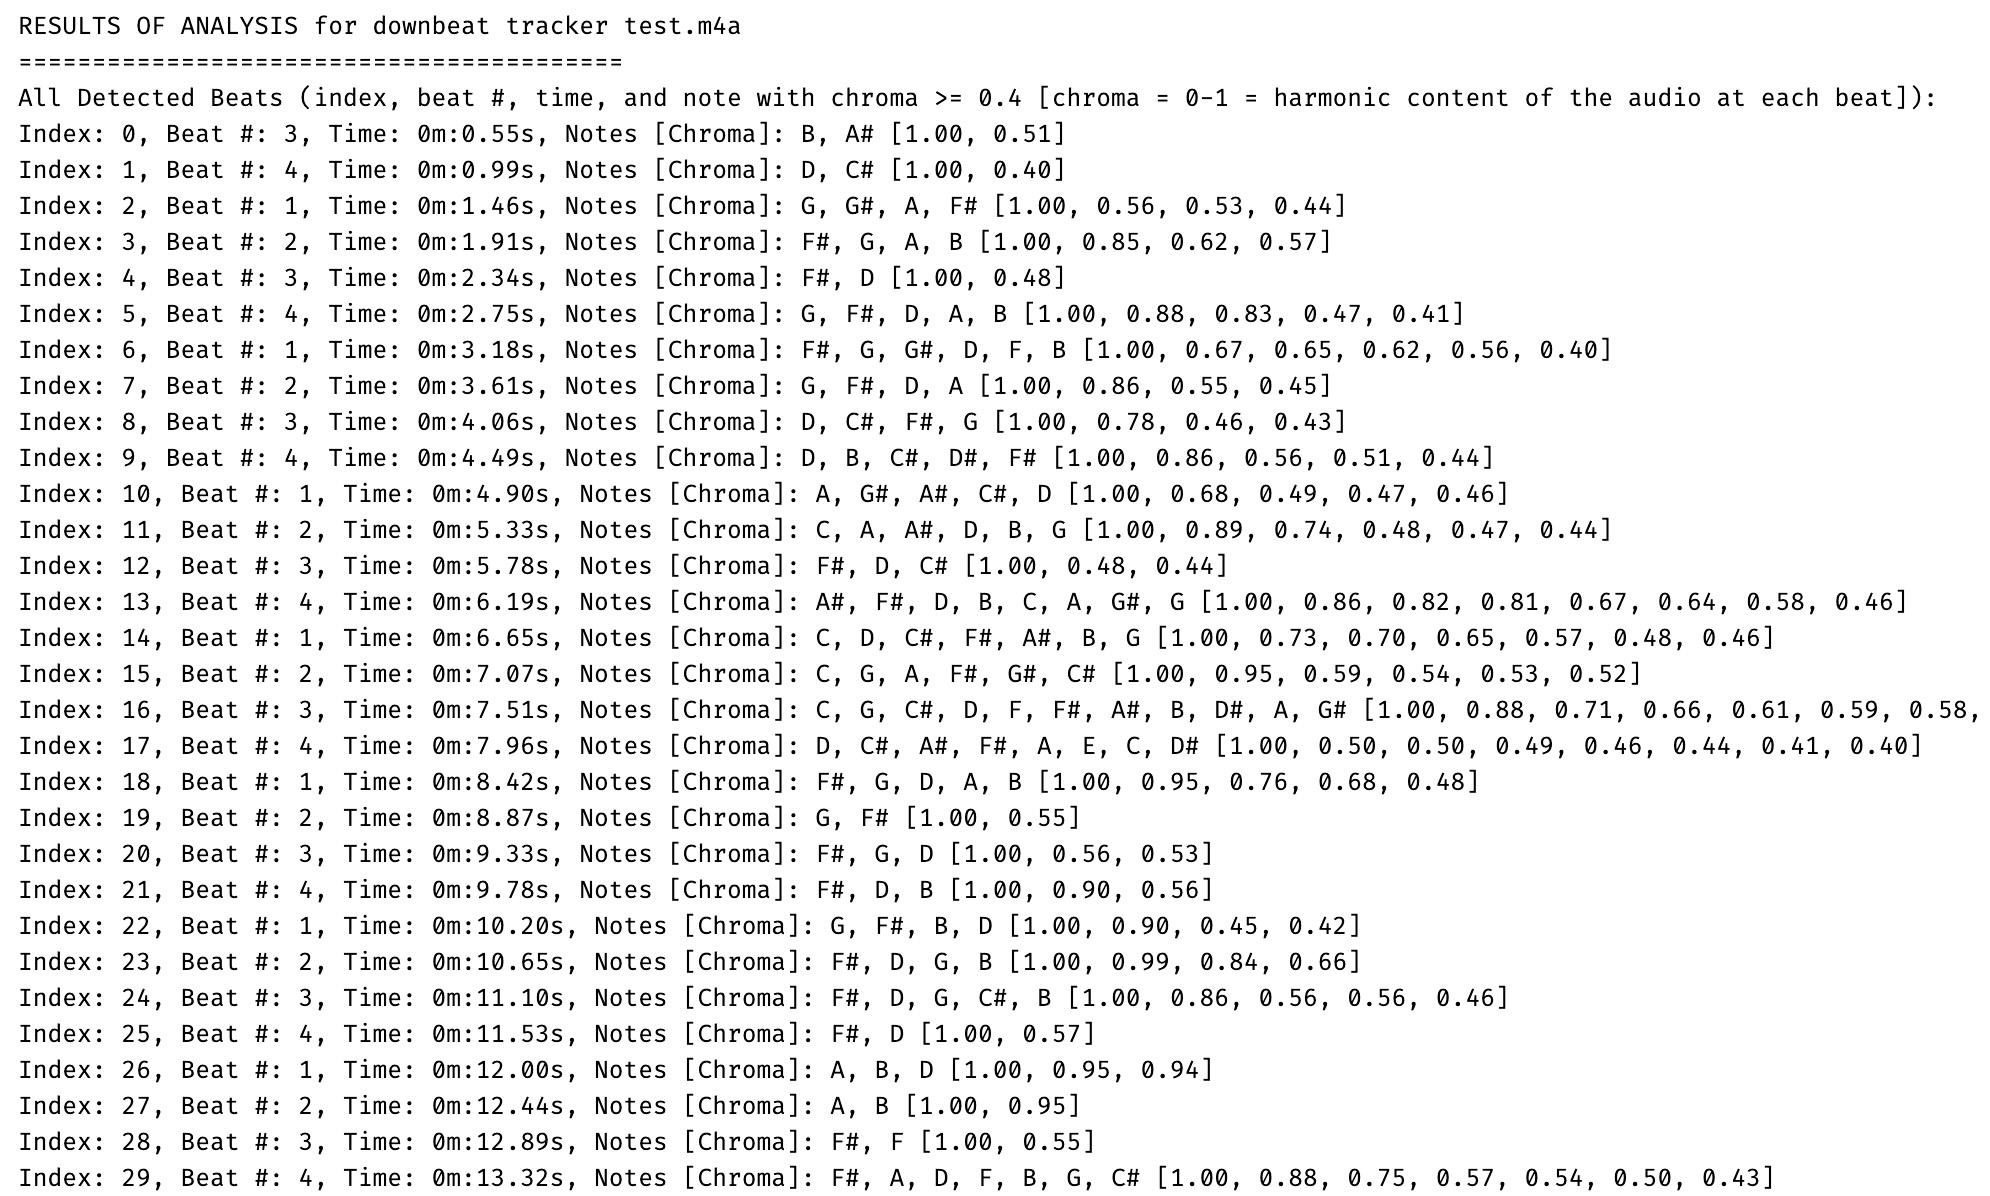
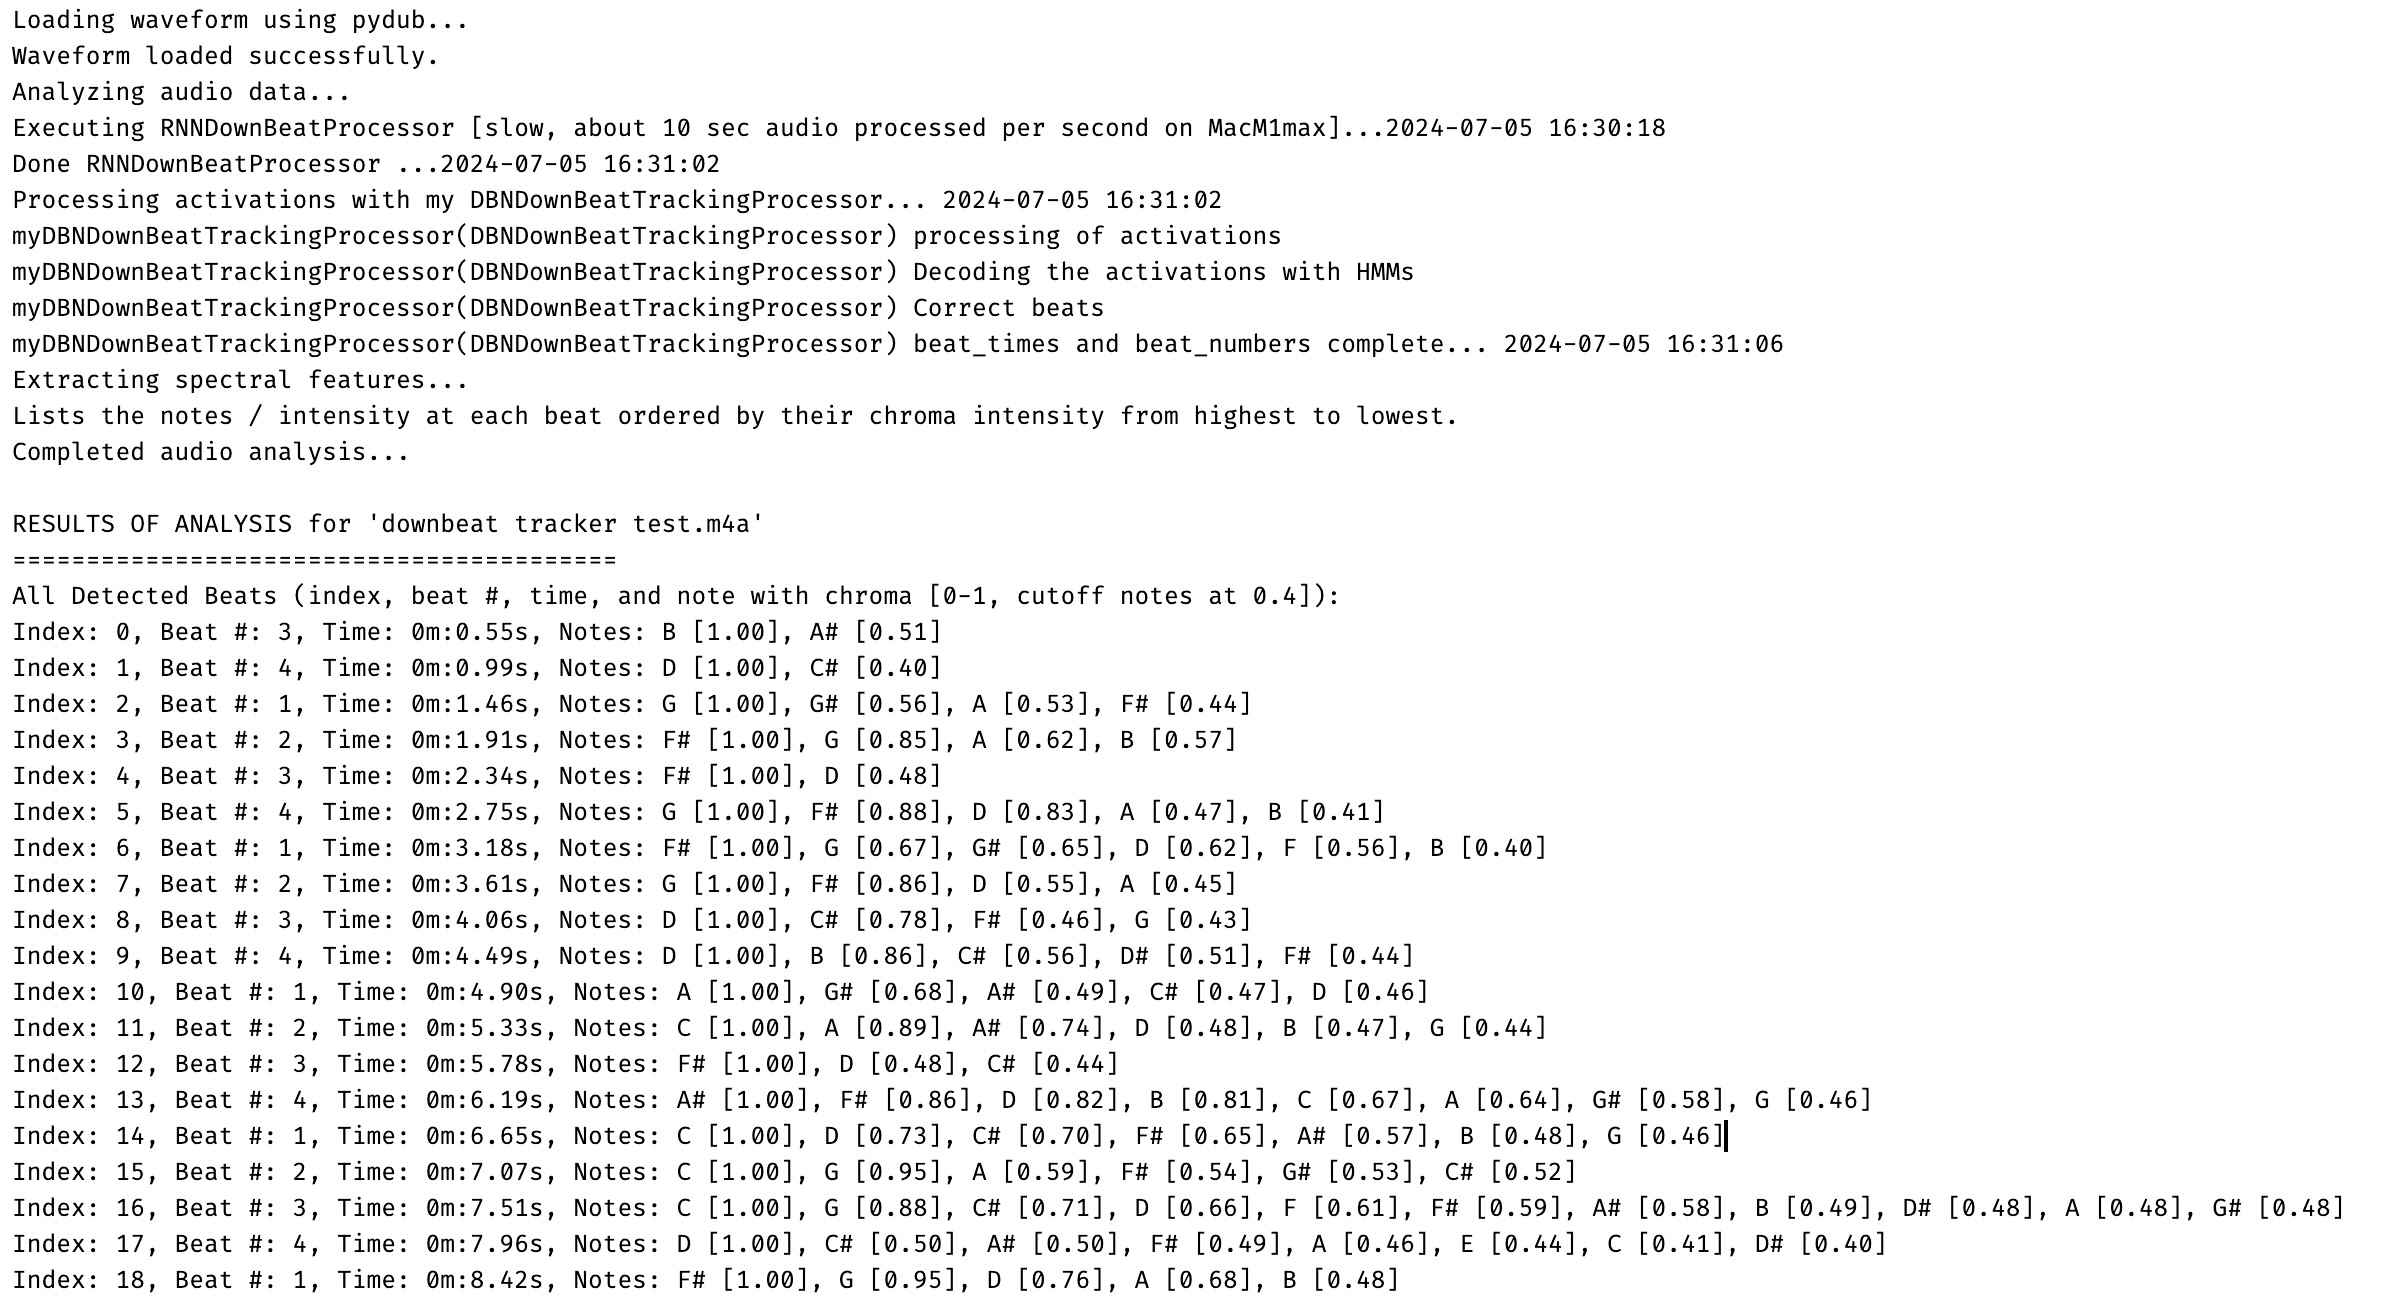
Madmom on python 3.11
minor tweaks + added time signature

diff --git a/madmom_python311_main.py b/madmom_python311_main.py
@@ -6,20 +6,18 @@ Applies madmom RNNDownBeatProcessor() to get beat activations
 Applies madmom DBNDownBeatTrackingProcessor() to get beat times and downbeats.
     - uses myDBNDownBeatTrackingProcessor() to operate in the current environment
 
-(c) M Gazier, 2024
-MIT License for my code
-Given parts of this code are essentially Madmom code, you should comply/check with the author Dr. Gerhard Widmer
-https://github.com/CPJKU/madmom
-Current web site https://www.jku.at/en/institute-of-computational-perception/about-us/people/gerhard-widmer/
+(c) Michael Gazier, 2024
+MIT License
 """
-import numpy as np
 from pydub import AudioSegment
 import os
 import librosa
+from datetime import datetime
 
 # fix Python 3.11 issues in madmom
 import collections.abc
 collections.MutableSequence = collections.abc.MutableSequence  # Alias MutableSequence to avoid deprecation issues
+import numpy as np
 np.float = float
 np.int = int
 # import madmom
@@ -57,34 +55,40 @@ def get_waveform(path):
     print("Waveform loaded successfully.")
     return _samples, _sr
 
-def analyze(y, _sr, min_bpm=55, max_bpm=170):
+def analyze_audio_beats_and_bpm(audio, _sr, min_bpm=None, max_bpm=None):
     """
     Analyze audio data for beats, downbeats, tempo, and musical notes.
+    min_bpm and max_bpm None mean use defaults of 55 and 170
     """
     print("Analyzing audio data...")
-    _data = {
+    beat_data = {
         'sample_rate': _sr,
-        'duration': librosa.get_duration(y=y, sr=_sr),
+        'duration': librosa.get_duration(y=audio, sr=_sr),
     }
+    if min_bpm is None:
+        min_bpm = 55
+    if max_bpm is None:
+        max_bpm = 170
 
     # Processing beats and downbeats using the custom downbeat processor
-    print("Executing RNNDownBeatProcessor...")
+    print(f"Executing RNNDownBeatProcessor [slow, about 10 sec audio processed per second on MacM1max]...{datetime.now().strftime('%Y-%m-%d %H:%M:%S')}")
     downbeat_processor = RNNDownBeatProcessor()
-    activations = downbeat_processor(y)
+    activations = downbeat_processor(audio)
+    print(f"Done RNNDownBeatProcessor ...{datetime.now().strftime('%Y-%m-%d %H:%M:%S')}")
     # print("Processing activations with myDBNDownBeatTrackingProcessor...") # message in myDBNDownBeatTrackingProcessor() if quiet=False
-    dbn_processor = myDBNDownBeatTrackingProcessor(beats_per_bar=[3, 4], fps=100, min_bpm=min_bpm, max_bpm=max_bpm, quiet=False)
-    beats_and_downbeats = dbn_processor(activations)
+    dbn_processor = myDBNDownBeatTrackingProcessor(beats_per_bar=[3, 4], fps=100, min_bpm=min_bpm, max_bpm=max_bpm)
+    beats_and_downbeats = dbn_processor(activations, quiet=False)
 
     beat_times = beats_and_downbeats[:, 0]
-    beat_positions_in_bar = beats_and_downbeats[:, 1].astype(int)  # Ensuring positions are integer
+    beat_positions_in_bar = beats_and_downbeats[:, 1].astype(int)  #  # the beat # 1-3 or 1-4
 
     # Data aggregation for output
-    _data['number_of_beats'] = len(beat_times)
-    _data['beat_times'] = beat_times
+    beat_data['number_of_beats'] = len(beat_times)
+    beat_data['beat_times'] = beat_times
 
     # Extracting downbeats (first beat of each bar)
-    downbeats = beats_and_downbeats[beat_positions_in_bar == 1]
-    _data['downbeats'] = list(zip(downbeats[:, 0], ['Beat 1'] * len(downbeats)))  # assuming beat 1 represents downbeat
+    downbeats = beats_and_downbeats[beat_positions_in_bar == 1]  # the beat # 1-3 or 1-4
+    beat_data['downbeats'] = list(zip(downbeats[:, 0], ['Beat 1'] * len(downbeats)))  # assuming beat 1 represents downbeat
 
     # Compute the tempo if enough beats are detected
     if len(beat_times) > 1:
@@ -92,12 +96,12 @@ def analyze(y, _sr, min_bpm=55, max_bpm=170):
         tempo = 60 / np.median(intervals) if intervals.size > 0 else 0  # Median interval converted to BPM
     else:
         tempo = 0  # Default to zero if not enough beats to calculate intervals
-    _data['tempo_float'] = tempo
+    beat_data['tempo_float'] = tempo
 
     print("Extracting spectral features... ")
     print("Lists the notes / intensity at each beat ordered by their chroma intensity from highest to lowest.")
     try:
-        chroma = librosa.feature.chroma_cqt(y=y, sr=_sr, hop_length=512)
+        chroma = librosa.feature.chroma_cqt(y=audio, sr=_sr, hop_length=512)
         frame_times = librosa.frames_to_time(range(chroma.shape[1]), sr=_sr, hop_length=512)
         note_names = ['C', 'C#', 'D', 'D#', 'E', 'F', 'F#', 'G', 'G#', 'A', 'A#', 'B']
 
@@ -113,73 +117,54 @@ def analyze(y, _sr, min_bpm=55, max_bpm=170):
             for frame in beat_frames
         ]
 
+        # time_signature 3/4 or 4/4 for this audio segment
+        largest_beat_number = max(beat_positions_in_bar) # max of beat+number 1-3 or 1-4
+        beat_data['time_signature'] = f"{largest_beat_number}/4"
+
         # Combining beat positions, times, and notes
-        _data['all_beats'] = list(zip(range(len(beat_times)), beat_times, beat_positions_in_bar, beat_notes))
+        beat_data['all_beats'] = list(zip(range(len(beat_times)), beat_times, beat_positions_in_bar, beat_notes))
     except Exception as e:
         print(f"Error processing chroma features: {e}")
-        _data.update({'notes': [0], 'dominant_note': 0})
+        beat_data.update({'notes': [0], 'dominant_note': 0})
 
     print("Completed audio analysis...")
-    return _data
+    return beat_data
 
-def print_data(_data, _filename):
+def print_data(_beat_data, _filename, quiet=True):
     """
     Print the results of the audio analysis.
+    quiet True means don't print all detected beats and notes [chroma]
     """
     print(f"\nRESULTS OF ANALYSIS for '{_filename}'\n=========================================")
 
     # Printing detailed information about beats and downbeats
-    print(f"All Detected Beats (index, beat #, time, and note with chroma [0-1, cutoff notes at {MIN_CHROMA}]):")
+    if not quiet:
+        print(f"All Detected Beats (index, beat #, time, and note with chroma [0-1, cutoff notes at {MIN_CHROMA}]):")
 
-    for idx, time, beat_num, notes in _data['all_beats']:
-        minutes, seconds = divmod(time, 60)
-        time_str = f"{int(minutes)}m:{seconds:.2f}s"
-        notes_str = ', '.join(notes)
-        print(f"Index: {idx}, Beat #: {beat_num}, Time: {time_str}, Notes: {notes_str}")
-
-    # Printing basic audio and analysis metrics
-    print("\nGeneral Analysis Results:")
-    print(f"Sample Rate: {_data['sample_rate']} Hz")
-    minutes, seconds = divmod(_data['duration'], 60)
-    time_str = f"{int(minutes)}m:{seconds:.2f}s"
-    print(f"Total Duration: {time_str}")
-    print(f"Total Number of Beats: {_data['number_of_beats']}")
-    # Printing tempo calculated from beat intervals
-    print(f"Calculated Tempo: {_data['tempo_float']:.1f} BPM")
-
-def print_data(_data, _filename):
-    """
-    Print the results of the audio analysis.
-    """
-    print(f"\nRESULTS OF ANALYSIS for {_filename}\n=========================================")
-
-    # Printing detailed information about beats and downbeats
-    print(f"All Detected Beats (index, beat #, time, and note with chroma >= {MIN_CHROMA} [chroma = 0-1 = harmonic content of the audio at each beat]):")
-
-    for idx, time, beat_num, notes in _data['all_beats']:
-        minutes, seconds = divmod(time, 60)
-        time_str = f"{int(minutes)}m:{seconds:.2f}s"
-        note_names = ', '.join([note for note, _ in notes])
-        chroma_values = ', '.join([f"{chroma:.2f}" for _, chroma in notes])
-        notes_str = f"{note_names} [{chroma_values}]"
-        print(f"Index: {idx}, Beat #: {beat_num}, Time: {time_str}, Notes [Chroma]: {notes_str}")
+        for idx, time, beat_num, notes in _beat_data['all_beats']:
+            minutes, seconds = divmod(time, 60)
+            time_str = f"{int(minutes)}m:{seconds:.2f}s"
+            notes_str = ', '.join([f"{note} [{chroma:.2f}]" for note, chroma in notes])
+            print(f"Index: {idx}, Beat #: {beat_num}, Time: {time_str}, Notes: {notes_str}")
 
     # Printing basic audio and analysis metrics
     print("\nGeneral Analysis Results:")
-    print(f"Sample Rate: {_data['sample_rate']} Hz")
-    minutes, seconds = divmod(_data['duration'], 60)
+    print(f"Sample Rate: {_beat_data['sample_rate']} Hz")
+    minutes, seconds = divmod(_beat_data['duration'], 60)
     time_str = f"{int(minutes)}m:{seconds:.2f}s"
     print(f"Total Duration: {time_str}")
-    print(f"Total Number of Beats: {_data['number_of_beats']}")
+    print(f"Total Number of Beats: {_beat_data['number_of_beats']}")
     # Printing tempo calculated from beat intervals
-    print(f"Calculated Tempo: {_data['tempo_float']:.1f} BPM")
+    print(f"Calculated Tempo: {_beat_data['tempo_float']:.1f} BPM")
+    print(f"Time signature: {_beat_data['time_signature']}") # time_signature 3/4 or 4/4 (string)
 
 if __name__ == '__main__':
-    ROOT_DIR = "/my/root/path/"
+    ROOT_DIR = "/My/Path/"
     filename = "downbeat tracker test.m4a"
     filePath = os.path.join(ROOT_DIR, filename)
-    samples, sr = get_waveform(filePath) # should be 44.1kHz
+    samples, sr = get_waveform(filePath)
+    # should be 44.1kHz
     MIN_CHROMA = 0.4  # default is 0.5
-    data = analyze(samples, sr)
-    print_data(data, filename)
-    print("Analysis complete.")
+    data = analyze_audio_beats_and_bpm(samples, sr, min_bpm=None, max_bpm=None)
+    print_data(data, filename, quiet = False)
+ 

diff --git a/my_madmom_downbeat_processor.py b/my_madmom_downbeat_processor.py
@@ -1,17 +1,14 @@
 """
 Demo for use of madmom with Python 3.11
 
-There are several minor but important issues i had with Python 3.11 that are fixed in this code
+There are several minor but important issues with Python 3.11 that are fixed in this code
 1- alias
 2- subclass to avoid strange error possibly due to np handling between python and support library versions
    ValueError: setting an array element with a sequence. The requested array has an inhomogeneous shape
    after 2 dimensions. The detected shape was (2, 2) + inhomogeneous part.
 
 (c) MGazier, 2024
-MIT License for my code
-Given parts of this code are essentially Madmom code, you should comply/check with the author Dr. Gerhard Widmer
-https://github.com/CPJKU/madmom
-Current web site https://www.jku.at/en/institute-of-computational-perception/about-us/people/gerhard-widmer/
+MIT License
 
 Example usage with this code
   Main code does before using this code to get beat activations
@@ -27,6 +24,7 @@ beats_and_downbeats = proc(activations)
 """
 
 import numpy as np
+from datetime import datetime
 
 # fix (patch) Python 3.11 issues in madmom
 import collections.abc
@@ -76,10 +74,11 @@ class myDBNDownBeatTrackingProcessor(DBNDownBeatTrackingProcessor):
             Detected (down-)beat positions [seconds] and beat numbers.
 
         """
-        print("Processing activations with my DBNDownBeatTrackingProcessor...")
+        print(f"Processing activations with my DBNDownBeatTrackingProcessor... {datetime.now().strftime('%Y-%m-%d %H:%M:%S')}")
         import itertools as it # done here to be similar to original DBNDownBeatTrackingProcessor
         if not quiet:
             print("myDBNDownBeatTrackingProcessor(DBNDownBeatTrackingProcessor) processing of activations")
+        first = 0
         if self.threshold:
             # this was def threshold_activations(activations, threshold):
             idx = np.nonzero(activations >= self.threshold)[0]
@@ -126,7 +125,7 @@ class myDBNDownBeatTrackingProcessor(DBNDownBeatTrackingProcessor):
         beat_info = np.vstack((beat_times, beat_numbers[beats])).T
 
         if not quiet:
-            print("myDBNDownBeatTrackingProcessor(DBNDownBeatTrackingProcessor) beat_times and beat_numbers complete")
+            print(f"myDBNDownBeatTrackingProcessor(DBNDownBeatTrackingProcessor) beat_times and beat_numbers complete... {datetime.now().strftime('%Y-%m-%d %H:%M:%S')}")
         return beat_info
 
     def _correct_beats(self, activations, path, observation_model):

diff --git a/README.md b/README.md
@@ -14,13 +14,13 @@
 
 # So ..
 - i put together a rough short program to test out and & debug my solution with Madmom
-	- i added some minimal non intrusive patches (subclass, aliases,..)
+	- i added some minimal non intrusive patches (subclass, aliases,..) as i didn't want to change the Madmom source etc.
 - it appears to work well, although i haven't fully tested it yet
 
 This code is raw, lightly tested and meant to share ideas, it is far from a product.
 
 Output is simple and its general analysis is at the end
-	- i didn't add the time signature in this version but you can see it in the beat #'s and should be trivial to add
+
 ![minidemo1](https://github.com/mgazier/madmom_python311/blob/main/madmom_python311_1.jpeg)
 [...]
 ![minidemo2](https://github.com/mgazier/madmom_python311/blob/main/madmom_python311_2.jpeg)
